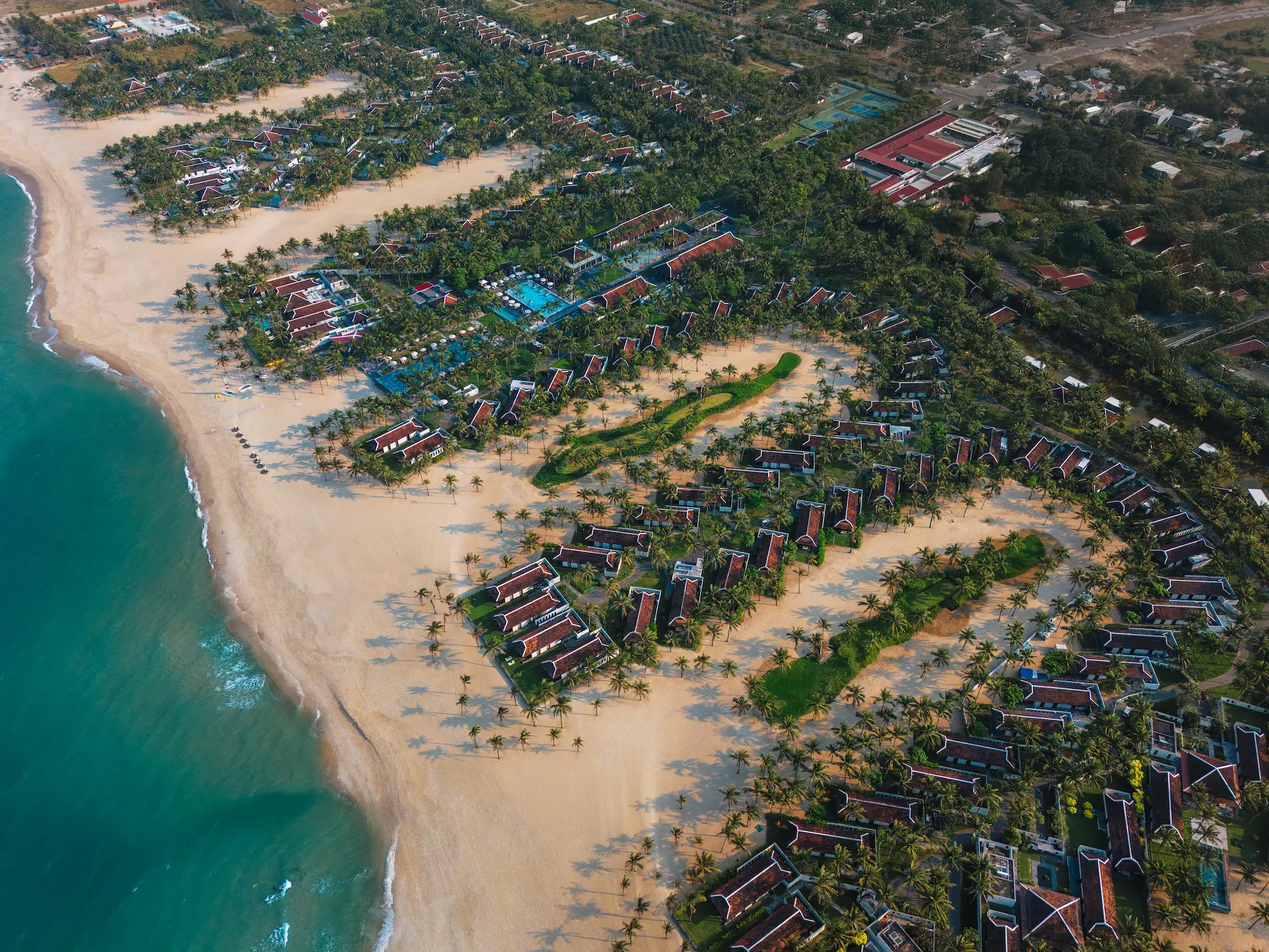
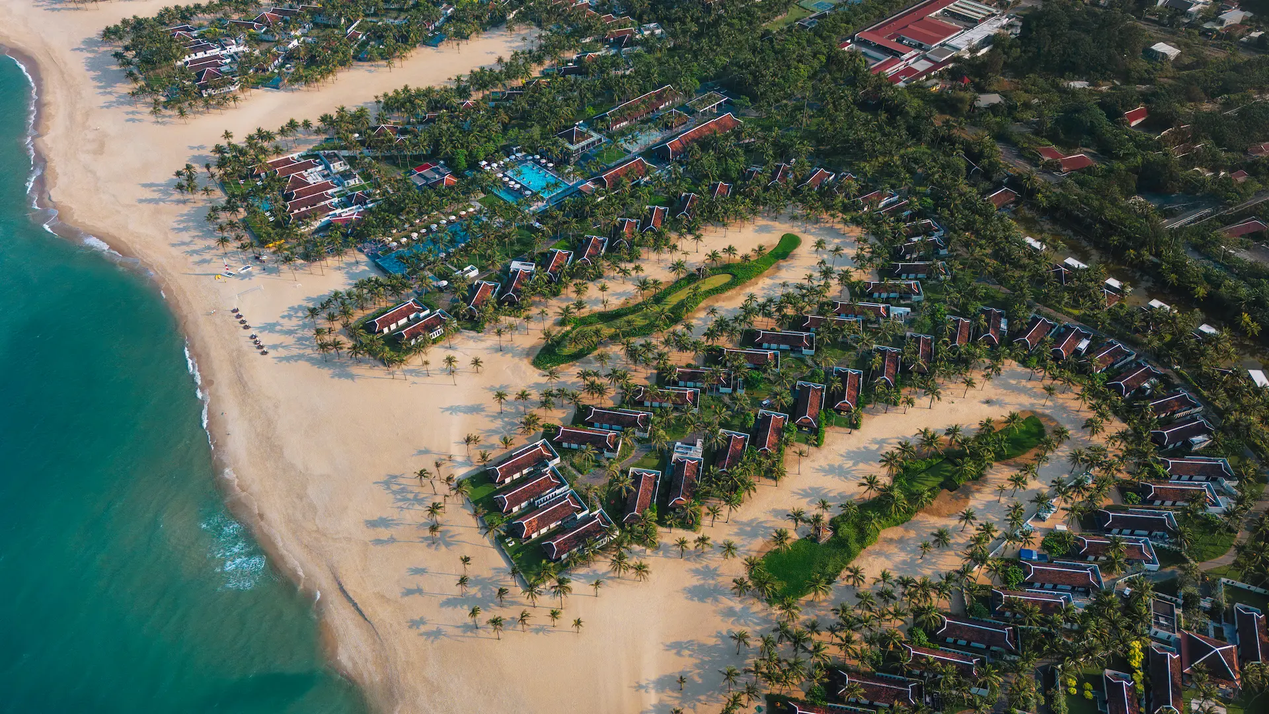
update

diff --git a/css/component/slide-project.css b/css/component/slide-project.css
@@ -21,7 +21,7 @@
   background-size: cover;
   background-position: center;
   z-index: 1;
-  background-color: blue;
+  background-color: var(--main-color-black);
 }
 
 .slide-projects .background::after {
